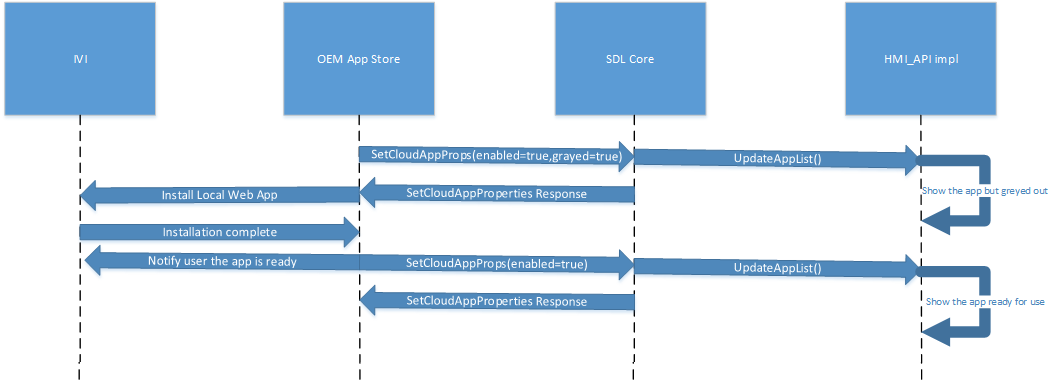
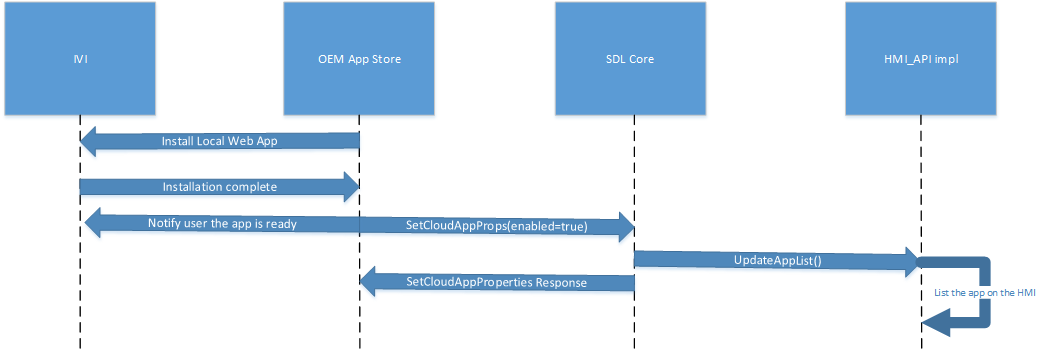
Modified proposal to capture new hybrid app preferences. Rephrases the high level overview.

diff --git a/proposals/NNNN-sdl-js-pwa.md b/proposals/NNNN-sdl-js-pwa.md
@@ -7,7 +7,7 @@
 
 ## Introduction
 
-This proposal is adding a new transport to the SDL JavaScript library to support (progressive) web apps running on a browser.
+This proposal is adding a new transport to the SDL JavaScript library to support (progressive) web apps running on a WebEngine, web view or a browser.
 
 ## Motivation
 
@@ -15,121 +15,104 @@ Allowing new user facing applications to run in a vehicle is a big opportunity f
 
 ## Proposed solution
 
-The proposed solution is to allow apps running in a browser and connect to SDL Core using WebSockets. The browser can be on the local host or in the local network where SDL Core is hosted. The proposed solution based on the cloud app transport adapter with additions to support apps running locally in a sandboxed (browser) environment.
+The proposed solution is to allow apps running in a WebEngine and connect to SDL Core using WebSockets. The WebEngine can be a browser that is reduced to the HTML rendering part only (without url bar, tabs etc.). The WebEngine can be on the local host or in the local network where SDL Core is hosted. The proposed solution based on the cloud app transport adapter with additions to support apps running locally in a sandboxed (browser) environment.
 
 ### High level overview 
 
 1. Apps should be made available to the user through an OEM store. The user should be able to install or uninstall apps from the store.
-2. An app should be a compressed bundle of application files, such as html, css or script files. At minimum it requires the "index.html" file and a manifest.json file with the html file to refer to.
-3. The manifest.sjon file should contain:
-   1. app ID,
-   2. app version,
-   5. per supporting locale:
-      1. nick names
-      2. short name
-      3. VR app names
-      4. TTS app name
-   6. a main/default locale
-   7. a relative path to an app icon in the app bundle
-4. The OEM store's backend should store the compressed app.
-5. If the user chooses to install an app the store should download and decompress the app to the application storage of the system.
-6. The OEM may choose to 
-   1. either operate the app as a local web page (file://somewhere/helloSDL/index.html)
-   2. or run a single http server instance which acts as an app host (https://localhost/helloSDL/index.html)
-   3. or run an http server instance for each installed app where each app get's a local port (https://localhost:4711/index.html)
-7. The OEM store uses `SetCloudAppProperties` using the manifest data. The store will set "enabled" parameter to "true" so that this app get's included in the HMI RPC "UpdateAppList".
-8. The OEM store may be setting an auth token if the app requires the store to perform the auth process.
-9. An app should be able to update the auth token while being registered/activated.
-10. The OEM store should be notified about the auth token change.
-11. For local apps the "endpoint" parameter will be empty/omitted. Instead the HMI is responsible to launch local apps.
-12. If a user selects a local app, which is not running (not connected to Core) Core should use HMI_API to activate the app.
-13. Core should use BasicCommunication.ActivateApp to tell the HMI to launch the app. 
-14. The HMI should know that it's the local app and that it needs to be launched to the browser.
-15. If the user activates the app, HMI should launch the app in the browser.
-16. Launching the app should should include SDL Core's hostname and port as GET parameters (.../index.html?ws-host=localhost&ws-port=123456)
-17. After the app is launched it will initiate the SDL library to connect using the GET parametes hostname and port.
+2. An app should be a compressed bundle of application files, such as html, css or script files. At minimum it requires following files
+   1. index.html
+   2. manifest.json
+3. The manifest.json file must be included in the HTML file as a script source
+4. The manifest.json file should contain:
+   1. SDL app ID
+   2. App nicknames
+   3. App version
+   4. Min SDL version
+   5. a relative path to an app icon in the app bundle
+5. The OEM store's backend should store the compressed app.
+6. If a user installs an app the store should download and decompress the app to the system.
+7. The OEM store uses `SetCloudAppProperties` using the manifest data.
+   1. The OEM store may choose to set "enabled" parameter to "true" to include the app in the HMI RPC "UpdateAppList".
+   2. The OEM store may be setting an auth token if the app requires the store to perform the auth process.
+   3. For local apps
+      1. "cloudTransportType" will be "ws" (WebSocket) or "wss" (WebSocket-Secure)
+      2. "endpoint" parameter will be omitted. Instead the HMI is responsible to launch local apps.
+   4. If Core doesn't know the app ID it should ask HMI for a policy update.
+8. An app should be able to update the auth token while being registered/activated.
+9. The OEM store should be notified about the auth token change.
+10. If a user activates a local app through the HMI, the HMI should launch the app by opening the index.html file.
+11. HMI should launch the app including SDL Core's hostname and port as GET parameters (file://somewhere/HelloSDL/index.html?ws-host=localhost&ws-port=123456)
+12. The app should connect to Core using the SDL library using hostname and port specified.
 
-### OEM store
+### Hybrid app preference
 
-There should be an OEM owned app which allows users to discover available apps but also install and uninstall apps. The app appearence and behavior is OEM specific however it should be able to communicate with SDL Core using the HMI API in order to control the available cloud and local apps.
+Due to a new app platform/location the hybrid app pference should be modified to track mobile, cloud and local apps.
 
-#### Changing App properties
-
-The RPC `SetCloudAppProperties` should be extended with a few additional parameters to allow an app and the system to use voice control. 
-
-### Server and Cloud Transport
+**Mobile API**
 
 ```xml
-<enum name="AppPlatformType">
-    <description>Enumeration of possible platforms an SDL app can exist.</description>
-    <element name="MOBILE" />
-    <element name="CLOUD" />
-    <element name="LOCAL" />
+<enum name="HybridAppPreference" since="5.1">
+  <description>Enumeration for the user's preference of which app type to use when both are available</description>
+  <element name="MOBILE" />
+  <element name="CLOUD" />
+  <element name="BOTH" deprecated="true" since="5.x">
+    <description>This element is deprecated. Using this element will be equal to "ALL". Please use ALL instead.</description>
+    <history>
+      <element name="BOTH" since="5.1" />
+    </history>
+  </element>
+  <element name="LOCAL" since="5.x" />
+  <element name="ALL" since="5.x" />
 </enum>
-
-<struct name="CloudAppProperties" since="5.1">
-<param name="nicknames" type="String" minlength="0" maxlength="100" array="true" minsize="0" maxsize="100" mandatory="false">
-    <description>An array of app names a cloud app is allowed to register with. If included in a SetCloudAppProperties request, this value will overwrite the existing "nicknames" field in the app policies section of the policy table.</description>
-</param>
-+ <param name="ttsAppName" type="TTSChunk" minsize="1" maxsize="100" array="true" mandatory="false" since="5.x">
-+    <description>The app name as text-to-speech to be used by the system's voice engine.</description>
-+ </param>
-+ <param name="vrAppName" type="String" maxlength="40" minsize="1" maxsize="100" array="true" mandatory="false" since="5.x">
-+    <description>App names for the voice engine to be recognized with this app.</description>
-+ </param>
-
-<param name="appID" type="String" maxlength="100" mandatory="true"/>
-<param name="enabled" type="Boolean" mandatory="false">
-    <description>If true, cloud app will be included in HMI RPC UpdateAppList</description>
-</param>
-+ </param>
-
-+ <param name="hybridAppPreference" type="HybridAppPreference" maxlength="100" mandatory="false" deprecated="true" since="5.x">
-+   <history>
-+     <param name="hybridAppPreference" type="HybridAppPreference" maxlength="100" mandatory="false" since="5.1" />
-+   </history>
-+   <description>Specifies the user preference to use the cloud app version or mobile app version when both are available</description>
-+ </param>
-
-+ <param name="appPlatformPriority" type="AppPlatformType" maxlength="100" mandatory="false">
-+   <description>Specifies the user preference in a priority order of the app platform if more than one are available.</description>
-+  <param>
-</struct>
 ```
 
-The OEM store would set cloud app properties based on the current system language. If the system language changes the OEM store would update the app properties to the new language.
+The app developer portal should allow a developer to specify an app as a local app. Also as the app platforms increase a new way to specify preferences should be introduced. The element `BOTH` should be deprecated and replaced by `ALL`.
 
-The flag "greyOut" allows SDL Core to show an app in a dimmed state whlie the app is in the download and installation progress.
+### OEM store and `CloudAppProperties`
 
-The app developer portal should allow a developer to specify an app as a local app. Also as the app platforms increase a new way to specify preferences should be introduced. with `appPlatformPriority` the developer and the OEM have the possibilities to prefer the SDL app from a specific platform over the other.
+There should be an OEM owned app which allows users to discover available apps but also install and uninstall apps. The app appearence and behavior is OEM specific however it should be able to communicate with SDL Core using the HMI API in order to provide cloud app properties of cloud and local apps.
 
 The RPC `SetCloudAppProperties` and all related items should also be included in the HMI_API in order to allow settings app properties from the mobile side but also from the system side (if the OEM store is embedded).
+
+With `BOTH` as an app preference being deprecated on the mobile API, SDL core should translate `BOTH` to `ALL` when forwarding app properties to the HMI.
 
 ** HMI_API **
 
 ```xml
+<interface name="Common" ...>
+:
+<enum name="HybridAppPreference">
+  <description>Enumeration for the user's preference of which app type to use when both are available</description>
+  <element name="MOBILE" />
+  <element name="CLOUD" />
+  <element name="LOCAL"/>
+  <element name="ALL"/>
+</enum>
+</interface>
+
 <interface name="BasicCommunication" ...>
+:
 <struct name="CloudAppProperties">
   <param name="nicknames" type="String" minlength="0" maxlength="100" array="true" minsize="0" maxsize="100" mandatory="false">
-    <description>An array of app names a cloud app is allowed to register with. If included in a SetCloudAppProperties request, this value will overwrite the existing "nicknames" field in the app policies section of the policy table.</description>
+      <description>An array of app names a cloud app is allowed to register with. If included in a SetCloudAppProperties request, this value will overwrite the existing "nicknames" field in the app policies section of the policy table.</description>
   </param>
-  <param name="ttsAppName" type="TTSChunk" minsize="1" maxsize="100" array="true" mandatory="false" since="5.x">
-    <description>The app name as text-to-speech to be used by the system's voice engine.</description>
-  </param>
-  <param name="vrAppName" type="String" maxlength="40" minsize="1" maxsize="100" array="true" mandatory="false" since="5.x">
-    <description>App names for the voice engine to be recognized with this app.</description>
-  </param>
-  <param name="appID" type="String" maxlength="100" mandatory="true"></param>
+  <param name="appID" type="String" maxlength="100" mandatory="true"/>
   <param name="enabled" type="Boolean" mandatory="false">
-    <description>If true, cloud app will be included in HMI RPC UpdateAppList</description>
+      <description>If true, cloud app will be included in HMI RPC UpdateAppList</description>
   </param>
   <param name="authToken" type="String" maxlength="65535" mandatory="false">
-    <description>Used to authenticate websocket connection on app activation</description>
+      <description>Used to authenticate websocket connection on app activation</description>
   </param>
   <param name="cloudTransportType" type="String" maxlength="100" mandatory="false">
-    <description>Specifies the connection type Core should use</description>
+      <description>Specifies the connection type Core should use</description>
   </param>
-  <param name="endpoint" type="String" maxlength="65535" mandatory="false"></param>
+  <param name="hybridAppPreference" type="HybridAppPreference" mandatory="false">
+      <description>Specifies the user preference to use the cloud app version or mobile app version when both are available</description>
+  </param>
+  <param name="endpoint" type="String" maxlength="65535" mandatory="false">
+      <description>Specifies the endpoint which Core will attempt to connect to when this app is selected</description>
+  </param>
 </struct>
 
 <function name="SetCloudAppProperties" messagetype="request">
@@ -184,6 +167,16 @@ The RPC `SetCloudAppProperties` and all related items should also be included in
     <element name="WARNINGS"/>
   </param>
 </function>
+
+<function name="OnCloudAppPropertiesChange" messagetype="notification">
+  <description>
+    SDL > HMI. RPC used to inform HMI about app properties change (such as auth token).
+  </description>
+  <param name="properties" type="CloudAppProperties" mandatory="true">
+    <description> The new cloud application properties </description>
+  </param>
+</function>
+</interface>
 ```
 
 ### Policy table update
@@ -192,11 +185,33 @@ With app properties being set by the OEM store, SDL Core may require a policy ta
 
 The cloud app transport adapter proposal includes a use case that describes how a policy server with transport adapter enhancements can update the policy table (see [here](https://github.com/smartdevicelink/sdl_evolution/blob/master/proposals/0158-cloud-app-transport-adapter.md#example-use-case-2)).
 
-In addition to the existing update procedures, the HMI should be able to perform an update request without sending a system request back to SDL Core. 
+SDL Core should trigger a policy update after a new and unknown appID is entered from a `SetCloudAppProperties` request or after a new app has registered. In addition to the existing update procedures, the HMI should be able to perform an update request without sending a system request back to SDL Core. 
 
 ![Diagram PTU external proprietary over modem](../assets/proposals/NNNN-sdl-js-pwa/diagram_PolicyUpdate_external_proprietary_enhanced.png)
 
 > Diagram showing an additional way to perform a policy table update using the vehicle modem.
+
+SDL Core logic should be changed to allow triggering policy updates without any connected applications. This should be a configurable option in the smartDeviceLink.ini file. The configuration flag should be located in the `[HMI]` section and could be called `SupportsPolicyUpdate`. The flag can be set to `true` or `false` (defaults to `false`).
+
+In case the policy updates fails using the in-vehicle modem, the HMI should still be able to return the policy table snapshot with a system request to SDL. This would allow a fallback to the existing sequence using mobile phones to transfer the policy table.
+
+![Diagram PTU external fallback](../assets/proposals/NNNN-sdl-js-pwa/diagram_PolicyUpdate_external_proprietary_enhanced_fallback.png)
+
+> Diagram showing an additional way to perform a policy table update using the vehicle modem.
+
+### WebSocket transport
+
+This proposal introduces a new runtime environment; the WebEngine. Data communication protocols are very limited in this environment. Therefore a new transport implementation should be introduced to SDL Core and the JavaScript library. 
+
+The transport for Core should be a WebSocket server which listens to a port specified in the smartDeviceLink.ini file. While SDL Core is operating the server should be permanently available and listen for connections on the specified port. Another ini configuration should allow binding the socket to the localloop address or any address. This increases security in production environment and allows remote connection in development systems.
+
+On the library side a new transport based on a WebSocket client should be created using the [WebSocket API](https://developer.mozilla.org/en-US/docs/Web/API/Websockets_API). This transport requires a hostname or ip address with a port to connect to Core's WebSocket server.
+
+### JavaScript library
+
+As described above the JavaScript library should be extended with a new transport. The library should also be extended to be exportable to a single .js file that can be included in an HTML file. This export could be done per library release using Webpack.
+
+This new transport should be specifically for WebEngine purposes and should not be included for the Node.js platform. In order to improve simple "plug-an-play" of the library, the .js file should include only this single transport.
 
 ### Local web app installation
 
@@ -208,35 +223,27 @@ If a user selects an app from the OEM store to be installed, the OEM store would
 
 ### Local web app activation
 
-![Flow of user activating a web app](../assets/proposals/NNNN-sdl-js-pwa/activate-web-app.png)
+Activating a local web app by a user will cause the HMI to launch the app's index.html file in the WebEngine. Once the engine has loaded the web page the JavaScript SDL library will initiate a WebSocket connection to SDL Core's 
+
+![Flow of user activating a web app](../assets/proposals/NNNN-sdl-js-pwa/activate-web-app-disabled.png)
 
 > Flow of how a user activates a web app and how it gets visible on the screen.
 
-### WebSocket transport
-
-This proposal introduces a new runtime environment; the browser. Data communication protocols are very limited in a browser environment. Therefore a new transport implementation should be introduced to SDL Core and the JavaScript library. 
-
-The transport for Core should be a WebSocket server which listens to a port specified in the smartDeviceLink.ini file. While SDL Core is operating the server should be permanently available and listen for connections on the specified port. Another ini configuration should allow binding the socket to the localloop address or any address. This increases security in production environment and allows remote connection in development systems.
-
-On the library side a new transport based on a WebSocket client should be created using the [WebSocket API](https://developer.mozilla.org/en-US/docs/Web/API/Websockets_API). This transport requires a hostname or ip address with a port to connect to Core's WebSocket server.
-
-### JavaScript library
-
-As described above the JavaScript library should be extended with a new transport. The library should also be extended to be exportable to a single .js file that can be included in an HTML file. This export could be done per library release using Webpack.
-
-This new transport should be specific to browsers and should not be included for the Node.js platform. In order to improve simple "plug-an-play" of the library, the .js file should include only this single transport.
-
 ### App presentation
 
-There should be two different graphical user interfaces available to browser based apps. The traditional template based user interface and the approach using the browser's document object (HTML).
+There should be two different graphical user interfaces available to WebEngine based apps. The traditional template based user interface and the approach using the app's document object (HTML page).
 
 #### Templates
 
-Independent of the web app's location this user interface should be the default. With the web app becoming active on the HMI, the HMI must load the default/current template and present content as provided by the app using the `Show` RPC.
+The default app presentation approach should be template based. With the web app becoming active on the HMI, the HMI should not present the app's HTML document object. The body of the index.html file of the web app should be empty and should not be modified with scripts as the app won't be visible on the HMI. The HMI shold show the system component responsible of SDL templates. This component would receive the `Show` RPCs provided by the app.
 
 #### Open HMI
 
 A new App HMI type called `OPEN_HMI` should be introduced. When apps with this HMI type are activated, the HMI should make the web page of this app visible on the screen. This web page will become the main window of the application. The window capabilities of this open main window will be empty except of the window ID and physical button capabilities. `Show` requests that address the main window won't have any affect to the HMI. If the app sends this request, Core should return an unsuccessful response with the result code `RESOURCE_NOT_AVAILABLE`. The info field should note that the app is registered with an open HMI. Widgets are still available and can be controlled using `Show`. Any overlay like Alert, ChoiceSets, Slider etc. are also available to the application.
+
+![Screenshot example of a web app](../assets/proposals/NNNN-sdl-js-pwa/web-app-example.jpg)
+
+> Screenshot shows a local web app presenting the user interface with the HTML renderer of the WebEngine.
 
 **Mobile and HMI API**
 
@@ -249,7 +256,7 @@ A new App HMI type called `OPEN_HMI` should be introduced. When apps with this H
 
 ## Potential downsides
 
-The upside of apps running on a browser is that it comes with an extremely flexible html based user interface and with a very sandboxed runtime environment. This sandbox is also a downside as WebSocket client is the only possible transport for SDL apps in a browser.
+The upside of apps running with a WebEngine is that it comes with an extremely flexible html based user interface and with a very sandboxed runtime environment. This can also be seen as downsides as the responsibility of following driver distraction rules increases and that a sandbox environment is limiting the functionality of apps.
 
 ## Impact on existing code
 
